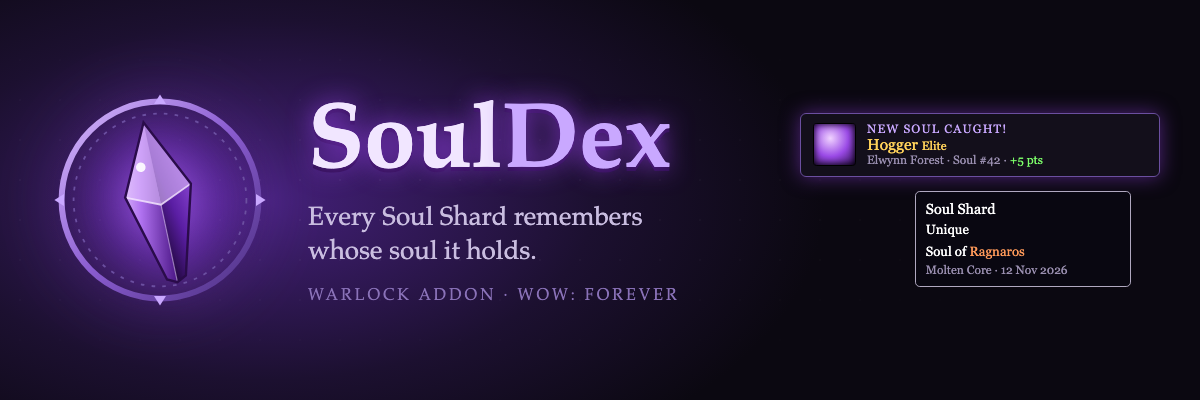
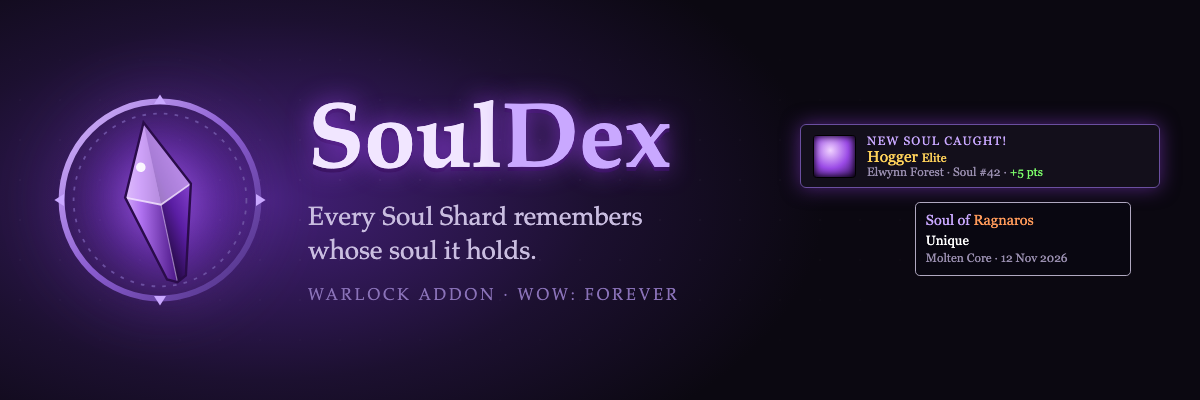
feat: name the soul in the Soul Shard tooltip title
A named shard's tooltip now reads "Soul of <name>" in place of "Soul
Shard", with the zone and date line below, instead of repeating the
soul on its own line. Slide 3 and the banner show the new tooltip.

Changed region(s): [[0.6475, 0.27, 0.9867, 0.69]]

diff --git a/docs/curseforge/source/feature-3-catch.html b/docs/curseforge/source/feature-3-catch.html
@@ -1,52 +1,43 @@
 <!doctype html>
-<html><head><meta charset="utf-8"><title>SoulDex: Catch</title>
+<html><head><meta charset="utf-8"><title>SoulDex: Shard tooltip</title>
 <link rel="stylesheet" href="shared.css">
 <style>
-	.shot { flex-direction: column; align-items: flex-start; gap: 40px; }
-	.pair { display: flex; gap: 16px; align-items: flex-start; }
-	.label { color: #8a72b8; font-size: 15px; letter-spacing: 3px; text-transform: uppercase; margin-bottom: 10px; }
+	.shot { flex-direction: column; align-items: center; gap: 22px; }
+	.tt .q { color: #c9a8ff; }
+	.tt .z { color: #9a8fb0; font-size: 10px; }
+	.tt.a { margin-left: -120px; }
+	.tt.b { margin-left: 120px; }
+	.tt.c { margin-left: -40px; }
 </style></head>
 <body>
 <div class="stage">
 	<div class="copy">
 		<div class="kicker"><img src="shard.svg" alt="">SoulDex</div>
 		<h1>Your shards <em>remember</em></h1>
-		<p>A popup and a sound for each new soul, and every Soul Shard in your bags tells you whose soul it holds.</p>
+		<p>Hover a Soul Shard and its tooltip names the soul inside, with where and when you took it.</p>
 		<ul>
-			<li>Points for first catches only</li>
+			<li>Names in rarity colours: elite, rare, boss</li>
 			<li>The soul follows its shard: bags, bank, relogs</li>
-			<li>Popup and sound each switch off</li>
+			<li>Never guessed: an unmatched shard stays a plain Soul Shard</li>
 		</ul>
 	</div>
 	<div class="shot">
-		<div>
-			<div class="label">New soul</div>
-			<div class="toast">
-				<div class="ic"></div>
-				<div>
-					<div class="t">NEW SOUL CAUGHT!</div>
-					<div class="nm" style="color:#c0c0c0">Mor'Ladim <span style="font-size:10px">Rare Elite</span></div>
-					<div class="sub">Duskwood · Soul #213 · <span style="color:#7dff6a">+10 pts</span></div>
-				</div>
-			</div>
+		<div class="tt a">
+			<div class="q">Soul of <span style="color:#ff9a5a">Ragnaros</span></div>
+			<div>Unique</div>
+			<div class="z">Molten Core · 12 Nov 2026</div>
 		</div>
-		<div>
-			<div class="label">Shard tooltip</div>
-			<div class="pair">
-				<div class="bag">
-					<div class="slot sh"></div><div class="slot sh hov"></div><div class="slot sh"></div><div class="slot"></div>
-					<div class="slot sh"></div><div class="slot"></div><div class="slot"></div><div class="slot"></div>
-					<div class="slot"></div><div class="slot"></div><div class="slot"></div><div class="slot"></div>
-				</div>
-				<div class="tt">
-					<div class="q">Soul Shard</div>
-					<div>Unique</div>
-					<div style="margin-top:3px">Soul of <span style="color:#ffd25a">Hogger</span></div>
-					<div style="color:#9a8fb0;font-size:10px">Elwynn Forest · 9 Nov 2026</div>
-				</div>
-			</div>
+		<div class="tt b">
+			<div class="q">Soul of <span style="color:#c0c0c0">Mor'Ladim</span></div>
+			<div>Unique</div>
+			<div class="z">Duskwood · 10 Nov 2026</div>
+		</div>
+		<div class="tt c">
+			<div class="q">Soul of <span style="color:#ffd25a">Hogger</span></div>
+			<div>Unique</div>
+			<div class="z">Elwynn Forest · 9 Nov 2026</div>
 		</div>
 	</div>
-	<div class="note">Illustration of the in-game popup and tooltip</div>
+	<div class="note">Illustration of the in-game tooltip</div>
 </div>
 </body></html>

diff --git a/docs/curseforge/source/banner.html b/docs/curseforge/source/banner.html
@@ -41,9 +41,8 @@
 				</div>
 			</div>
 			<div class="tt" style="width:180px">
-				<div class="q">Soul Shard</div>
+				<div class="q" style="color:#c9a8ff">Soul of <span style="color:#ff9a5a">Ragnaros</span></div>
 				<div>Unique</div>
-				<div style="margin-top:3px">Soul of <span style="color:#ff9a5a">Ragnaros</span></div>
 				<div style="color:#9a8fb0;font-size:10px">Molten Core · 12 Nov 2026</div>
 			</div>
 		</div>

diff --git a/docs/superpowers/specs/2026-11-10-souldex-design.md b/docs/superpowers/specs/2026-11-10-souldex-design.md
@@ -29,7 +29,7 @@ this document are marked **[call]**, and the user should check them.
   are open-ended: they only show what you've caught, never `???` blanks. **[user]**
   The user decided this because a complete list of every open-world mob is
   impossible to finish and the display gets swamped with blanks.
-- The shard in your bag gets extra tooltip lines saying whose soul it is. **[user]**
+- The shard in your bag says whose soul it is in its tooltip. **[user]**
 - A minigame layer: a popup and sound for new catches, points, milestones,
   and guild announcements of big moments. **[user]**
 - Social: see other SoulDex users in your party, raid or guild, plus anyone
@@ -39,7 +39,7 @@ this document are marked **[call]**, and the user should check them.
 
 - No master list of open-world mobs, and no "X / Y" for zones. **[user]**
 - No 3D model portraits. **[user]** (left out when choosing what an entry shows)
-- No change to the shard item, its icon, or how bags look. Tooltip lines only. **[user]**
+- No change to the shard item, its icon, or how bags look. Tooltip text only. **[user]**
 - No content past vanilla for now. Raid data starts from classic vanilla
   (MC, Onyxia, BWL, ZG, AQ20, AQ40, Naxxramas). WoW: Forever plans new content;
   the raid list must be easy to extend later. **[user]**
@@ -401,9 +401,12 @@ the user agreed to this table as an example]**
 
 ### 6.3 Shard tooltip
 
-- Hovering a Soul Shard in your bags adds two lines to the normal tooltip:
-  "Soul of <name>" (in rarity or class colour) and "<zone> · <date>".
-  Nothing else changes. **[user]**
+- Hovering a Soul Shard in your bags changes its tooltip: the item name line
+  ("Soul Shard") becomes "Soul of <name>" (in rarity or class colour), and a
+  "<zone> · <date>" line is added at the bottom. Nothing else changes. **[user]**
+  (changed after 1.2.4: the user wanted the name in the title, not repeated
+  under "Soul Shard".) If the name line can't be found, "Soul of <name>" is
+  added as a line instead.
 - (changed during build: one palette.) The tooltip, the popup and the window
   use the same rarity colours (`Rarity.lua`: elite gold, rare silver, boss
   orange, as in the mockups). The colour is saved with each shard, so shards
@@ -415,9 +418,9 @@ the user agreed to this table as an example]**
   data's GUID, or by the bag slot the tooltip was set from. Forbidden or
   protected tooltips are left alone. Without `TooltipDataProcessor` the old
   `GameTooltip:SetBagItem` hook is used.
-- An Unknown soul shard shows a grey "Unknown soul" line instead of
+- An Unknown soul shard shows a grey "Unknown soul" as its name instead of
   "Soul of <name>", then "<zone> · <date>".
-- Shards from before the addon was installed get no extra lines.
+- Shards from before the addon was installed keep the plain "Soul Shard" tooltip.
 
 ### 6.4 Guild announcements
 
@@ -541,9 +544,10 @@ One list, grouped by feature. Enable script errors first, then `/reload`.
   (Elite / Boss) and a "Lv 60 Humanoid" style line, if the game gave a level.
 
 **Shard tooltip**
-- Hover the new shard: two extra lines, "Soul of <name>" (coloured) and
-  "<zone> · <date>"; an Unknown soul shard shows a grey "Unknown soul" line.
-  Old or unmatched shards get no extra lines. Move the shard to another bag,
+- Hover the new shard: the tooltip's top line reads "Soul of <name>" (name
+  coloured) instead of "Soul Shard", the box is wide enough for it, and
+  "<zone> · <date>" is the last line; an Unknown soul shard's top line is a grey
+  "Unknown soul". Old or unmatched shards still say "Soul Shard" with no extra lines. Move the shard to another bag,
   sort the bags, put it in the bank and take it out, relog: the line stays on
   that exact shard.
 

diff --git a/docs/curseforge/SUBMISSION.md b/docs/curseforge/SUBMISSION.md
@@ -53,7 +53,7 @@ Upload the five `feature-*.png` files, in order, with these titles:
 
 1. **Mobs** — Every shard is a soul caught
 2. **Raids** — Catch every raid soul
-3. **New soul and shard tooltip** — Your shards remember
+3. **Shard tooltip** — Your shards remember
 4. **Players and Friends** — Players, and rivals
 5. **Me and Milestones** — Score, stats and milestones
 
@@ -64,7 +64,7 @@ soon as you can**; players trust them more. Good ones to take:
 - [ ] The window on the Mobs tab with a detail pane open (an elite or rare).
 - [ ] The Raids tab with a partly caught raid, showing `? ? ?` and boss skulls.
 - [ ] The NEW SOUL CAUGHT! popup right after a catch.
-- [ ] A Soul Shard tooltip in your bags ("Soul of …").
+- [ ] A named Soul Shard's tooltip in your bags (title "Soul of …").
 - [ ] The Friends tab with at least one guildie listed.
 
 Hide other UI clutter (Alt+Z hides the whole UI, so open the window first and crop).

diff --git a/CHANGELOG.md b/CHANGELOG.md
@@ -5,6 +5,8 @@ Versions follow [Semantic Versioning](https://semver.org/).
 
 ## [Unreleased]
 
+- A named Soul Shard's tooltip now shows "Soul of <name>" as its title, in place of "Soul Shard", instead of repeating it on a line below.
+
 ## [1.2.4] - 2026-11-14
 
 - The addon is now called SoulDex everywhere: the window, options, chat lines, guild announcements and the addon list.
